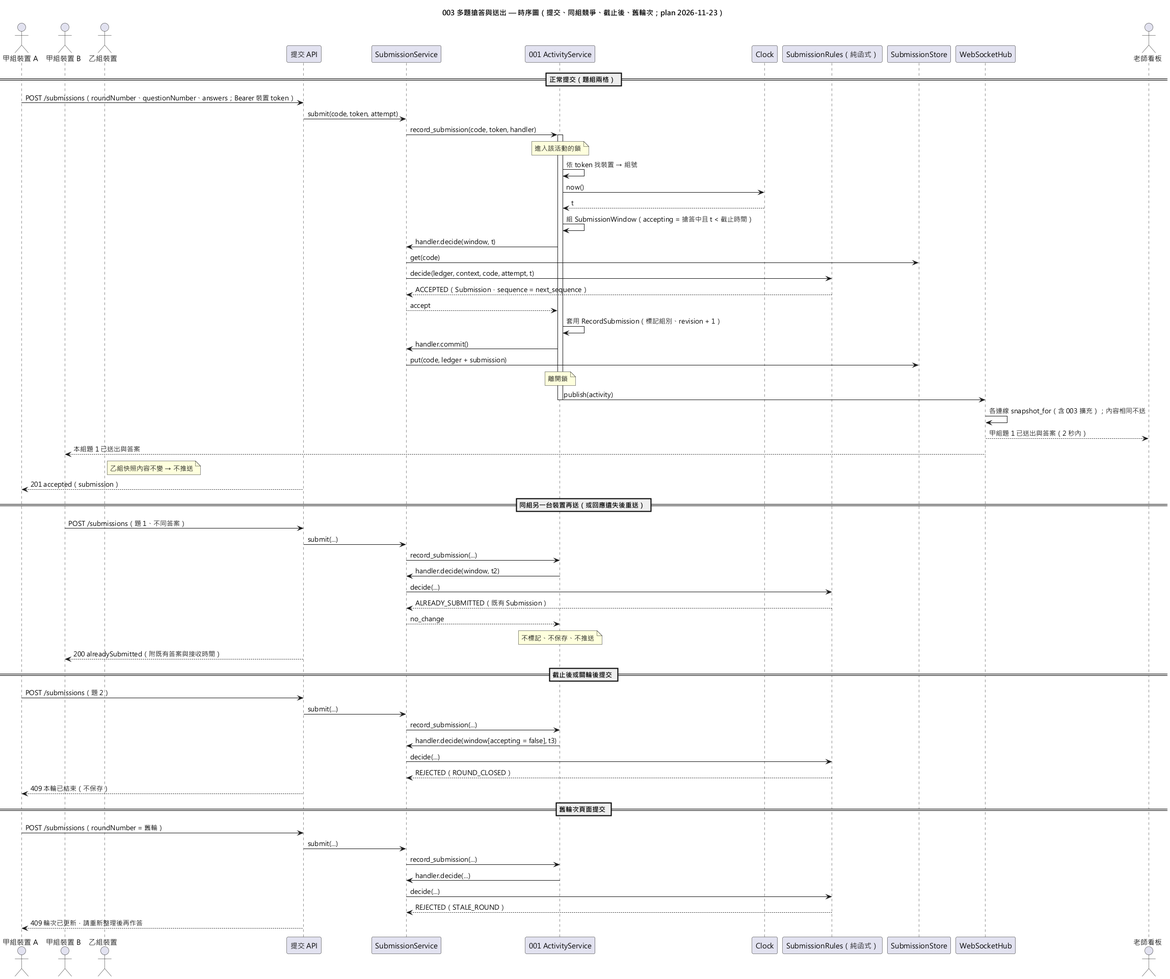
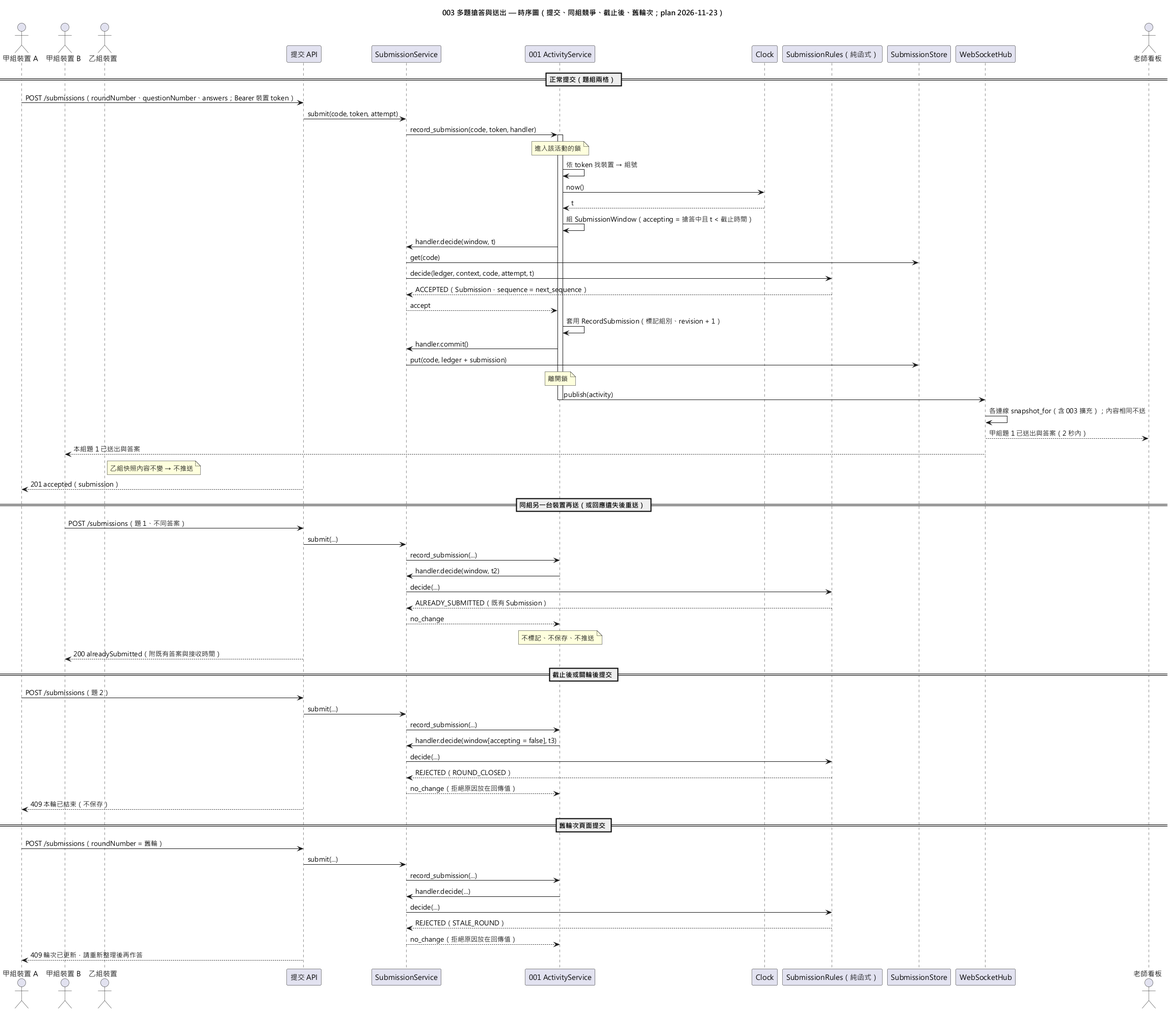
docs: 003 依 analyze 修正：序號不回覆學生、不放寬 001 Outcome、無輪次回本輪未開始、補測試任務與 004 交接

diff --git a/specs/003-round-submission/tasks.md b/specs/003-round-submission/tasks.md
@@ -44,7 +44,7 @@ description: "003-round-submission 任務清單"
 ### 測試（先寫、確認失敗）
 
 - [ ] T005 [P] 在 `tests/unit/core/test_state_machine_record_submission.py` 測試 001 新指令 `RecordSubmission`（與 `MarkGroupSubmitted` 相同，不檢查 actor：只由服務層以 `System()` 送出，沒有 HTTP 入口）：只在 `ROUND_OPEN` 成功，其他 6 個階段回 `STAGE_NOT_ALLOWED`；有截止時間時 `now < deadline` 成功、`now == deadline` 與之後拒絕（`STAGE_NOT_ALLOWED`），沒有截止時間時成功；組別不存在回 `GROUP_NOT_FOUND`；成功時 `has_submissions = True`，**每次都 `changed`**：第二次對同組套用 `revision` 仍加 1，`version` 與 `changed_at` 都不變（研究 R2、R5）
-- [ ] T006 [P] 在 `tests/unit/app/test_record_submission.py` 測試 `ActivityService.record_submission(code, device_token, handler)`：活動不存在回 `ACTIVITY_GONE`、token 無效回 `NOT_IN_GROUP`，兩者都不呼叫 `handler.decide`；`clock.now()` 只呼叫一次，且同一個值傳給 `decide`；`SubmissionWindow.accepting` 在搶答中且 `now < deadline`（或無截止）時為真、其他情況為假；`decide` 回 `accept` → 先套用 `RecordSubmission` 再呼叫 `commit`，`commit` 被呼叫時活動鎖仍被持有（仿 `tests/unit/app/test_idempotency_inside_lock.py` 的 LockCheckingRegistry），鎖釋放後 `publish` 恰好一次；`no_change`／`reject` → 不呼叫 `commit`、不推送、`revision` 不變；`RecordSubmission` 被拒（例如 FakeClock 讓截止時間在 window 組成後才到 —— 以 handler 內推進 FakeClock 的方式模擬不了時，直接構造截止已過的活動並讓 handler 強制回 `accept`）→ 不呼叫 `commit`，回傳拒絕
+- [ ] T006 [P] 在 `tests/unit/app/test_record_submission.py` 測試 `ActivityService.record_submission(code, device_token, handler)`：活動不存在回 `ACTIVITY_GONE`、token 無效回 `NOT_IN_GROUP`，兩者都不呼叫 `handler.decide`；`clock.now()` 只呼叫一次，且同一個值傳給 `decide`；`SubmissionWindow.accepting` 在搶答中且 `now < deadline`（或無截止）時為真、其他情況為假；`decide` 回 `accept` → 先套用 `RecordSubmission` 再呼叫 `commit`，`commit` 被呼叫時活動鎖仍被持有（仿 `tests/unit/app/test_idempotency_inside_lock.py` 的 LockCheckingRegistry），鎖釋放後 `publish` 恰好一次；`no_change` → 不呼叫 `commit`、不推送、`revision` 不變，`Outcome.ok` 為真且 `value` 為 handler 給的值；`RecordSubmission` 被拒（例如 FakeClock 讓截止時間在 window 組成後才到 —— 以 handler 內推進 FakeClock 的方式模擬不了時，直接構造截止已過的活動並讓 handler 強制回 `accept`）→ 不呼叫 `commit`，回傳拒絕
 - [ ] T007 [P] 在 `tests/unit/app/test_snapshot_extension.py` 測試快照擴充：未註冊時 `snapshot_for` 的結果與改動前完全相同；註冊後老師（`TeacherViewer`）與學生（`GroupViewer(n)`）的快照 `extra` 包含擴充回傳的欄位；擴充可覆寫 001 欄位；`snapshot()` 與 `WebSocketHub` 推送都經過擴充（以 TestClient WebSocket 收到的訊息驗證）；身分無效時仍回 `None`、不呼叫擴充
 - [ ] T008 [P] 在 `tests/unit/core/round_submission/test_models.py` 測試 `SubmissionLedger`：空 ledger `next_sequence == 1`；`with_added` 回傳新物件、原物件不變、`next_sequence + 1`；`find(round, question, group)` 找得到／找不到；`for_round` 只回該輪；所有型別 frozen（指定屬性拋 `FrozenInstanceError`）
 - [ ] T009 [P] 在 `tests/unit/app/round_submission/test_store.py` 測試 `SubmissionStore`：未知代碼回空 ledger；`put` 後 `get` 取回同一物件；不同活動互不影響
@@ -52,7 +52,7 @@ description: "003-round-submission 任務清單"
 ### 001 擴充實作
 
 - [ ] T010 在 `src/lecture_quiz/core/activity/commands.py` 新增 `RecordSubmission(actor: Actor, group_number: int)`（docstring 說明只給 003、每次都算變更），加入 `Command` 聯集；在 `src/lecture_quiz/core/activity/state_machine.py` 新增 `_record_submission`：允許階段 `frozenset({Stage.ROUND_OPEN})`、有截止時間時 `ActivityStateMachine.is_deadline_passed(current, now)` 為真就拒絕（`STAGE_NOT_ALLOWED`）、組別不存在 `GROUP_NOT_FOUND`、否則 `has_submissions = True` 並一律回 `_changed`；在 `describe_rejection` 若需要補 `RecordSubmission` 的訊息。不改 `MarkGroupSubmitted`（依賴 T005）
-- [ ] T011 在 `src/lecture_quiz/app/activity/ports.py` 新增：`SubmissionWindow`（frozen：`group_number: int`、`stage: Stage`、`round_number: int | None`、`open_questions: tuple[int, ...]`、`deadline: datetime | None`、`accepting: bool`）；`HandlerStep[T]`（`kind: Literal["accept", "no_change", "reject"]`、`value: T | None`、`rejection: str | None`、`message: str`，附 `accept()`／`no_change()`／`reject()` 建構函式）；`SubmissionHandler[T]` Protocol（`decide(window, now) -> HandlerStep[T]`、`commit() -> None`）；`TeacherViewer`、`GroupViewer(group_number)`、`Viewer` 聯集；`SnapshotExtension` Protocol（`__call__(activity, viewer) -> Mapping[str, object]`）。`Outcome.rejection` 型別放寬為 `RejectionReason | str | None`，讓 003 的拒絕碼可以沿用 `Outcome`（mypy 確認 001 既有呼叫端不受影響）
+- [ ] T011 在 `src/lecture_quiz/app/activity/ports.py` 新增：`SubmissionWindow`（frozen：`group_number: int`、`stage: Stage`、`round_number: int | None`、`open_questions: tuple[int, ...]`、`deadline: datetime | None`、`accepting: bool`）；`HandlerStep[T]`（`kind: Literal["accept", "no_change"]`、`value: T`，附 `accept(value)`／`no_change(value)` 建構函式；003 的拒絕也用 `no_change` 回傳，拒絕原因在 `value` 裡）；`SubmissionHandler[T]` Protocol（`decide(window, now) -> HandlerStep[T]`、`commit() -> None`）；`TeacherViewer`、`GroupViewer(group_number)`、`Viewer` 聯集；`SnapshotExtension` Protocol（`__call__(activity, viewer) -> Mapping[str, object]`）。**不修改** `Outcome`（001 HTTP 層 `unwrap()` 直接使用 `rejection.http_status`，放寬型別會讓 mypy 失敗）
 - [ ] T012 在 `src/lecture_quiz/app/activity/service.py` 實作 `record_submission(code, device_token, handler)`（研究 R2 步驟 1～7；鎖內順序：找裝置 → `now = self._clock.now()` → 組 `SubmissionWindow` → `handler.decide` → `accept` 時以 `ActivityStateMachine.apply(activity, RecordSubmission(System(), group), now, None)` 套用並 `registry.put` → `handler.commit()`；鎖外 `_publish`）、`add_snapshot_extension(ext)`，並把 `snapshot_for` 改為實例方法（先呼叫 `SnapshotView`，再依序併入擴充欄位）；同步修改 `snapshot()` 與所有呼叫點（依賴 T010、T011）
 - [ ] T013 在 `src/lecture_quiz/adapters/web/ws_sync.py` 的 `_push` 改為 `self._service.snapshot_for(activity, conn.requester)`（`_service` 為 `None` 時直接 return 並記 WARNING）（依賴 T012）
 - [ ] T014 執行 `pytest`：T005～T007 通過，001 既有測試**不修改**全部通過；把結果數字補進 `verification.md`。若有 001 測試因 `snapshot_for` 改為實例方法而失敗，只調整呼叫方式，不得改斷言，並在 verification.md 列出
@@ -80,13 +80,13 @@ description: "003-round-submission 任務清單"
 - [ ] T020 [P] [US1] 在 `tests/unit/core/round_submission/test_answer_rules.py` 測試 `AnswerRules.check(raw, expected)`（Q-20 提議）：格數不符 → `WRONG_BLANK_COUNT` 且 `expected_blanks == expected`（`Scenario: US1-AS4` ↔ OpenSpec「題組少一格」）；任一格 `strip()` 後為空（含半形空白、全形空白 U+3000、Tab、`\n`）→ `BLANK_EMPTY` 並列出**全部**空格格號（`Scenario: US1-AS3`、`Scenario: US1-AS6`）；`answers_raw` 不是 list、元素不是 str → `INVALID_ANSWER`；恰好 500 字通過、501 字 → `ANSWER_TOO_LONG` 並列出格號；同時有空格與超長時回 `BLANK_EMPTY`；通過時回傳**原文**（保留首尾空白與換行）；`MAX_ANSWER_CHARS == 500` 為模組常數
 - [ ] T021 [P] [US1] 在 `tests/unit/core/round_submission/test_decide_us1.py` 測試 `SubmissionRules.decide`：LAYOUT_A 開放題 1、2，先送題 2 再送題 1 都 `ACCEPTED`，序號 1、2（`Scenario: US1-AS1` ↔ OpenSpec「不同順序作答」）；只送其中兩題，其餘仍可送（`Scenario: US1-AS2`）；送本輪未開放的題 3 與不存在的題 99 → `QUESTION_NOT_OPEN`，ledger 不變（`Scenario: US1-AS5`）；題號不是整數 → `QUESTION_NOT_OPEN`；被拒後同題再送完整答案 → `ACCEPTED`（不消耗機會，FR-005）；內容明顯錯誤但非空 → `ACCEPTED` 且原文保存（`Scenario: US1-AS7`）；LAYOUT_B 題 2 需要 3 格：送 2 格 → `WRONG_BLANK_COUNT`、送 3 格 → `ACCEPTED`（原則 III、SC-009）；開放題查不到格數 → `QUESTION_NOT_OPEN`
 - [ ] T022 [P] [US1] 在 `tests/unit/app/round_submission/test_submit_us1.py` 以真的 `ActivityService` + `FakeClock` + `FakeQuestionShapeSource` 測試 `SubmissionService.submit`：接受後 store 有該筆、`received_at == fake_clock.now()`、老師快照 `revision` 加 1、`version` 不變；被拒時 store、`next_sequence`、`revision`、`version` 都不變且沒有推送（FR-005）
-- [ ] T023 [P] [US1] 在 `tests/contract/test_http_submissions.py` 測試 `POST /api/activities/{code}/submissions`：接受回 `201 {"result": "accepted", "submission": {roundNumber, questionNumber, groupNumber, answers, receivedAt}}`，回應不含 `sequence`；`WRONG_BLANK_COUNT`／`BLANK_EMPTY`／`ANSWER_TOO_LONG`／`QUESTION_NOT_OPEN`／`INVALID_ANSWER` 回 400 與 `{"error": {"code", "message"}}`，訊息分別含「需要 k 格」「第 i 格尚未填寫」「第 i 格超過 500 字」「不在本輪」；本文不是 JSON 物件或缺欄位 → 400 `INVALID_REQUEST`；錯誤回應不含 token、`Traceback`、檔案路徑（FR-034、SC-007）
+- [ ] T023 [P] [US1] 在 `tests/contract/test_http_submissions.py` 測試 `POST /api/activities/{code}/submissions`：接受回 `201 {"result": "accepted", "submission": {roundNumber, questionNumber, groupNumber, answers, receivedAt}}`，回應不含 `sequence`；`WRONG_BLANK_COUNT`／`BLANK_EMPTY`／`ANSWER_TOO_LONG`／`QUESTION_NOT_OPEN`／`INVALID_ANSWER` 回 400 與 `{"error": {"code", "message"}}`，訊息分別含「需要 k 格」「第 i 格尚未填寫」「第 i 格超過 500 字」「不在本輪」；本文不是 JSON 物件或缺欄位 → 400 `INVALID_REQUEST`；裝置 token 無效、未帶 token、改用**老師 token** 送出 → `403 NOT_IN_GROUP`；後端重啟後（活動不存在）帶舊 token 送出 → `410 ACTIVITY_GONE`（Edge Cases「不是學生裝置的請求」「活動已失效」）；錯誤回應不含 token、`Traceback`、檔案路徑（FR-034、SC-007）
 
 ### Implementation for User Story 1
 
 - [ ] T024 [US1] 在 `<core>/answer_rules.py` 實作 `MAX_ANSWER_CHARS = 500` 與 `AnswerRules.check(raw, expected) -> tuple[str, ...]`，失敗時拋 `InvalidAnswerError(rejection, blank_numbers, expected_blanks)`（規則照 T020 與 research R8；docstring 註明 Q-20 為 SpecKit 組提議、待 OpenSpec 確認）（依賴 T020）
 - [ ] T025 [US1] 在 `<core>/rules.py` 實作 `SubmissionRules.decide(ledger, context, code, attempt, now)` 的步驟 3（題號）、5（`AnswerRules`）、6（接受：`Submission(..., received_at=now, sequence=ledger.next_sequence)`）；步驟 1、2、4 先以「一律通過」的位置保留並加 `# US2／US3 完成` 註解（依賴 T021、T024）
-- [ ] T026 [US1] 在 `<app>/service.py` 實作 `submit(code, device_token, attempt) -> Outcome[SubmissionDecision]`：建立 `_SubmitHandler`（`decide`：讀 `store.get(code)`、以 `shapes.blanks_per_question(code)` 與 window 組 `RoundContext`、呼叫 `SubmissionRules.decide`、把結果轉成 `HandlerStep`；`commit`：`store.put(code, ledger.with_added(sub))`），呼叫 `activity_service.record_submission`；把 001 的 `ACTIVITY_GONE`／`NOT_IN_GROUP` 轉成 `SubmissionRejection` 同名值；INFO 日誌 `activity round question group result`，不含 token 與答案（研究 R13）（依賴 T022、T025）
+- [ ] T026 [US1] 在 `<app>/service.py` 實作 `submit(code, device_token, attempt) -> Outcome[SubmissionDecision]`：建立 `_SubmitHandler`（`decide`：讀 `store.get(code)`、以 `shapes.blanks_per_question(code)` 與 window 組 `RoundContext`、呼叫 `SubmissionRules.decide`、把結果轉成 `HandlerStep`：`ACCEPTED` → `accept(decision)`，`ALREADY_SUBMITTED` 與 `REJECTED` → `no_change(decision)`；`commit`：`store.put(code, ledger.with_added(sub))`），呼叫 `activity_service.record_submission`；`record_submission` 回傳 `ok=False` 時（001 的 `ACTIVITY_GONE`、`NOT_IN_GROUP`）轉成 `SubmissionDecision(kind=REJECTED, rejection=SubmissionRejection 同名值)`，讓 `submit` 一律回傳 `Outcome(ok=True, value=decision)`；INFO 日誌 `activity round question group result`，不含 token 與答案（研究 R13）（依賴 T022、T025）
 - [ ] T027 [US1] 在 `<web>/submission_api.py` 實作 `POST /activities/{code}/submissions`：pydantic 本文 `SubmitBody`（`model_config = ConfigDict(extra="ignore")`；`roundNumber`、`questionNumber`、`answers` 型別為 `object`，原樣交給核心）；以 001 `http_api` 的 `Token` 依賴取得 bearer token；接受回 201、拒絕以 `ApiError(status, code, message)` 拋出；`annotate_request_log(request, result=...)`（依賴 T023、T026）
 - [ ] T028 [US1] 前端作答表單：新增 `<static>/js/submission.js`，匯出 `renderAnswerForm(container, questionNumber, blanks, onSubmit)`（每格一個 `<textarea>`、標示「第 i 格」、`maxlength=500` 只是提示）、`describeSubmitError(error)`；`<static>/js/student.js` 在 `ROUND_OPEN` 時依快照的 `openQuestions` 與 `questionShapes` 畫出每題表單，送出時呼叫 `api.js` 的 POST；**一律用 `textContent`／`createElement`，不得使用 `innerHTML`**；`<static>/student.html` 加作答區塊容器。以 `node --check` 檢查語法
 
@@ -124,7 +124,7 @@ description: "003-round-submission 任務清單"
 
 ### Tests for User Story 3（先寫、確認失敗）⚠
 
-- [ ] T035 [P] [US3] 在 `tests/unit/core/round_submission/test_decide_us3.py` 測試：`round_number_raw` 不等於目前輪次、不是整數、或目前沒有輪次 → `STALE_ROUND`（`Scenario: US3-AS4` ↔ OpenSpec「舊輪次頁面提交」）；輪次相符但 `accepting` 為假 → `ROUND_CLOSED`（`Scenario: US3-AS2`、`Scenario: US3-AS3`）；`STALE_ROUND` 優先於 `ROUND_CLOSED`、`ROUND_CLOSED` 優先於題號與內容檢查；`SubmissionRules.order` 對相同 `received_at` 依 `sequence` 排序，輸入順序打亂結果相同（`Scenario: US3-AS5` ↔ OpenSpec「同時間戳」）
+- [ ] T035 [P] [US3] 在 `tests/unit/core/round_submission/test_decide_us3.py` 測試：`round_number_raw` 不等於目前輪次或不是整數 → `STALE_ROUND`；目前還沒有任何輪次（準備中、開放加入）→ `ROUND_CLOSED`，訊息為「本輪尚未開始或已結束」（spec Edge Cases「非搶答中提交」）（`Scenario: US3-AS4` ↔ OpenSpec「舊輪次頁面提交」）；輪次相符但 `accepting` 為假 → `ROUND_CLOSED`（`Scenario: US3-AS2`、`Scenario: US3-AS3`）；`STALE_ROUND` 優先於 `ROUND_CLOSED`、`ROUND_CLOSED` 優先於題號與內容檢查；`SubmissionRules.order` 對相同 `received_at` 依 `sequence` 排序，輸入順序打亂結果相同（`Scenario: US3-AS5` ↔ OpenSpec「同時間戳」）
 - [ ] T036 [P] [US3] 在 `tests/unit/app/round_submission/test_submit_deadline.py` 以 FakeClock 測試：開輪 60 秒，`deadline - 1ms` 接受、`deadline` 與 `deadline + 1ms` 回 `ROUND_CLOSED` 且不保存（`Scenario: US3-AS1`、`Scenario: US3-AS2` ↔ OpenSpec「截止邊界」；SC-004）；無倒數輪次在老師關輪前一直接受、關輪後 `ROUND_CLOSED`（`Scenario: US3-AS3`）；接收序號跨輪持續遞增、被拒不消耗序號（FR-016）；`received_at` 等於鎖內取得的 `now`
 - [ ] T037 [P] [US3] 在 `tests/unit/app/round_submission/test_close_vs_submit.py` 測試關輪與提交以 `asyncio.gather` 同時執行 50 次：每次要嘛提交被保存且關輪後的公開資料包含它，要嘛提交回 `ROUND_CLOSED` 且未保存；不存在「關輪後才保存」的提交（以 store 中每筆的 `received_at < 關輪時間` 且關輪後推送的快照已包含全部保存的提交檢查）（`Scenario: US3-AS6`；FR-019、SC-004）
 - [ ] T038 [P] [US3] 在 `tests/contract/test_http_submissions.py` 補：本文多帶 `clientTime`、`receivedAt`、`groupNumber` 欄位時被忽略，`receivedAt` 仍為後端時間、`groupNumber` 仍為 token 所屬組（`Scenario: US3-AS7`）；`STALE_ROUND`、`ROUND_CLOSED` 回 409 且訊息分別含「輪次已更新，請重新整理」「本輪已結束」
@@ -189,8 +189,8 @@ description: "003-round-submission 任務清單"
 
 ### Tests for User Story 6（先寫、確認失敗）⚠
 
-- [ ] T052 [P] [US6] 在 `tests/integration/test_us6_safe_display.py` 測試：答案 `<b>粗體</b><script>alert(1)</script>` 被接受，老師與學生快照、HTTP 回應中的答案字串與送出原文完全相同（`Scenario: US6-AS1` ↔ OpenSpec「特殊文字答案」；後端不轉義、不過濾，安全由前端 `textContent` 負責）；無倒數輪次的快照 `deadline` 為 `null`，老師關輪前任何時間（FakeClock 推進 1 小時）都接受提交（`Scenario: US6-AS3` ↔ OpenSpec「無倒數輪次」）；有倒數輪次的快照帶後端 `deadline`（`Scenario: US6-AS2`）
-- [ ] T053 [P] [US6] 在 `tests/architecture/test_static_text_safety.py` 靜態檢查：`<static>/js/submission.js`、`student.js`、`teacher.js` 不含 `innerHTML`、`outerHTML`、`insertAdjacentHTML`、`document.write`（`Scenario: US6-AS1`；FR-031、SC-008）；`submission.js` 只有在 `response.ok` 分支呼叫顯示「已送出」的函式（以字串規則檢查 `已送出` 文字只出現在成功處理函式內）（`Scenario: US6-AS4`；FR-032）
+- [ ] T052 [P] [US6] 在 `tests/integration/test_us6_safe_display.py` 測試：答案 `<b>粗體</b><script>alert(1)</script>` 被接受，老師與學生快照、HTTP 回應中的答案字串與送出原文完全相同（`Scenario: US6-AS1` ↔ OpenSpec「特殊文字答案」；後端不轉義、不過濾，安全由前端 `textContent` 負責）；無倒數輪次的快照 `deadline` 為 `null`，老師關輪前任何時間（FakeClock 推進 1 小時）都接受提交（`Scenario: US6-AS3` ↔ OpenSpec「無倒數輪次」）；有倒數輪次的快照帶後端 `deadline`（`Scenario: US6-AS2`，前端「歸零後停用送出」另由 T053 靜態檢查與 quickstart 第 15 步驗證，後端拒絕由 T036 驗證）；學生 WebSocket 關閉後，同組另一台裝置提交，再以同一 token 重新連線時，第一份快照就包含該提交（`Scenario: US6-AS5`；FR-033）
+- [ ] T053 [P] [US6] 在 `tests/architecture/test_static_text_safety.py` 靜態檢查：`<static>/js/submission.js`、`student.js`、`teacher.js` 不含 `innerHTML`、`outerHTML`、`insertAdjacentHTML`、`document.write`（`Scenario: US6-AS1`；FR-031、SC-008）；`student.js` 的倒數歸零處理會停用作答表單（以字串規則檢查倒數結束的回呼中有停用表單的呼叫）（`Scenario: US6-AS2`）；`submission.js` 只有在 `response.ok` 分支呼叫顯示「已送出」的函式（以字串規則檢查 `已送出` 文字只出現在成功處理函式內）（`Scenario: US6-AS4`；FR-032）
 
 ### Implementation for User Story 6
 
@@ -300,6 +300,7 @@ Task: "T009 tests/unit/app/round_submission/test_store.py"
 
 ## Notes
 
+- **交接給 004**：FR-026「所有候選都被判錯 → 顯示未成功」、FR-025 的勝者與「搶答失敗」顯示，都需要 004 的順位與判錯結果；003 只提供 `judgedWrong` 欄位（一律 `false`）、`noSubmission` 與送出先後（`order`）。004 的 tasks 必須涵蓋這些項目
 - [P] = 不同檔案且沒有未完成的相依
 - 每個 User Story 完成後勾選、commit（`feat:`／`test:`）、push
 - 不得為了讓測試通過而修改 001 既有測試的斷言（T014）

diff --git a/specs/003-round-submission/spec.md b/specs/003-round-submission/spec.md
@@ -221,7 +221,7 @@
 - **FR-007**: 對同一活動、同一輪、同一題、同一組，系統 MUST 只接受第一筆有效提交，MUST NOT 允許修改、覆蓋或撤回。
 - **FR-008**: 該組該題本輪已有有效提交時，任何後續送出（不論來自哪一台本組裝置、內容是否相同、內容是否有效）MUST 回覆「本組已送出」，並附上本組已保存的答案與接收時間；MUST NOT 揭露他組資訊。
 - **FR-009**: 同組多台裝置同時送出同輪同題時，MUST 只有一筆被保存；所有本組裝置 MUST 在同步期限內顯示同一份答案。
-- **FR-010**: 同一請求重送（例如回應遺失後重試）MUST NOT 建立第二筆提交，MUST 回覆原提交的答案、接收時間與接收序號。
+- **FR-010**: 同一請求重送（例如回應遺失後重試）MUST NOT 建立第二筆提交，MUST 回覆原提交的答案與接收時間；後端保存的接收序號 MUST 保持不變，但 MUST NOT 回覆給學生（序號在活動內跨組遞增，回覆給學生會讓人推知他組的提交數量，違反 FR-021）。
 - **FR-011**: 某題在前一輪未成功並於新一輪再次開放時，每一組 MUST 在新一輪重新獲得一次提交機會；前一輪的提交紀錄 MUST 保持不變。
 - **FR-012**: 提交 MUST 歸屬於送出當下由後端判定的組號，之後裝置離開本組或加入他組，MUST NOT 改變既有提交的歸屬（alignment 2026-11-23 B4）。
 - **FR-013**: 系統 MUST 先向 001 標記該組已有提交紀錄，標記成功後才保存答案；標記被拒（例如組別不存在、本輪已不開放）時 MUST NOT 保存答案。001 已禁止搶答中刪除組別（alignment 2026-11-23「001 刪除組別規則釐清」），這個順序是防禦性的保證：任何時候都不會出現「答案已保存但組別已被刪除」。
@@ -266,6 +266,7 @@
 
 ### Key Entities *(include if feature involves data)*
 
+- **判錯與答錯（用詞）**：「判錯」是老師在 004 的操作；「答錯」是公開結果中被判錯提交的顯示文字；「搶答失敗」是勝者之後、沒有被判錯的候選的顯示文字（不等於答錯）。
 - **提交（Submission）**：一組在某一輪對某一題的第一筆有效答案。屬性：活動代碼、輪次編號、題號、組號、各子空格答案（依子空格編號排列）、後端接收時間、接收序號。建立後不可修改；不包含裝置 token。
 - **提交嘗試（Submission Attempt）**：學生送出的原始內容：輪次識別、題號、各格答案。只用於判定，被拒時不保存。
 - **提交判定結果（Submission Decision）**：接受（含新提交）、本組已送出（含既有提交）、或拒絕（含可修正的原因，例如第幾格未填、第幾格超過 500 字、這題需要幾格、該題不在本輪、輪次已更新、本輪已結束、未加入組別、活動已失效）。
@@ -278,7 +279,7 @@
 
 - **SC-001**: 每個 OpenSpec Scenario（13 個）與本 spec 的每個 Acceptance Scenario，都至少有一個自動化測試標明對應並通過。
 - **SC-002**: 「同組兩台裝置同時送出同題不同答案」重複 50 次，每次都只保存 1 筆、另一台都收到「本組已送出」，兩台最後顯示的答案 100% 相同。
-- **SC-003**: 「回應遺失後重送」重複 20 次，重複提交數為 0，回覆的接收時間與序號 100% 與原提交相同。
+- **SC-003**: 「回應遺失後重送」重複 20 次，重複提交數為 0，回覆的答案與接收時間 100% 與原提交相同，後端保存的接收序號 100% 不變。
 - **SC-004**: 截止邊界測試中，接收時間早於截止 1 毫秒者 100% 被接受，恰於截止與晚於截止者 100% 被拒絕；「關輪與提交同時發生」重複 50 次，結果公開後才加入的提交數為 0。
 - **SC-005**: 搶答期間，學生頁面收到的所有回應與推送中，含有他組本輪答案、提交狀態、時間、數量或順位的次數為 0；他組提交時本組收到推送的次數為 0。
 - **SC-006**: 老師加上 6 組、每組 2 條連線同時在線時，有效提交被接受後 2 秒內出現在老師看板與同組另一台裝置；連續 20 次全部達成。

diff --git a/specs/003-round-submission/research.md b/specs/003-round-submission/research.md
@@ -48,7 +48,7 @@ Technical Context 沒有 NEEDS CLARIFICATION；以下是設計決策。每項格
 
 ## R6 每題子空格數的來源
 
-- **決策**：003 定義 `QuestionShapeSource` Protocol：`blanks_per_question(code) -> Mapping[int, int] | None`（題號 → 格數；尚未成功匯入時為 `None`）。由 002 的 `ImportService` 實作（`ImportRecord.blanks` 依題號計數；已與 EricC430 口頭協調）。002 合併前：`dev_seed` 的 seed 可指定每題格數，並提供 `DevQuestionShapeSource`；只在 dev seed 啟用時組裝。
+- **決策**：003 定義 `QuestionShapeSource` Protocol：`blanks_per_question(code) -> Mapping[int, int] | None`（題號 → 格數；尚未成功匯入時為 `None`）。由 002 的 `ImportService` 實作（`ImportRecord.blanks` 依題號計數；已與 EricC430 口頭協調）。002 合併前：`dev_seed` 的 seed 可指定每題格數，並提供 `DevQuestionShapeSource`；只在 dev seed 啟用時組裝；seed 的 `blanks` 長度必須等於題數、每題 1～10 格（只是開發用的防呆上限，不是正式規則）。
 - **理由**：格數一律來自匯入結果（憲章原則 III）；重新匯入只在第一輪前，搶答中格數不變。
 - **替代方案**：001 的 `replace_questions` 改傳格數（改動 001 與 002 已對齊的契約，否決）；003 直接讀 002 的 `ImportRecord`（耦合 002 內部型別，否決）。
 - **防禦**：開放題在 `QuestionShapeSource` 查不到格數時，`decide` 回 `QUESTION_NOT_OPEN` 並記錄 WARNING（不應發生，代表 002／001 資料不一致）。
@@ -79,7 +79,7 @@ Technical Context 沒有 NEEDS CLARIFICATION；以下是設計決策。每項格
 ## R10 判定順序與拒絕原因
 
 - **決策**：`SubmissionRules.decide` 依下列順序，第一個不符合的條件決定結果（data-model.md 有完整表）：
-  1. 輪次識別不是整數，或不等於目前輪次 → `STALE_ROUND`（沒有任何輪次時亦同）。
+  1. 目前還沒有任何輪次（準備中、開放加入）→ `ROUND_CLOSED`（「本輪尚未開始或已結束」）；輪次識別不是整數，或不等於目前輪次 → `STALE_ROUND`。
   2. `accepting` 為假（不在搶答中、已截止、已關輪）→ `ROUND_CLOSED`。
   3. 題號不是整數或不在本輪開放題 → `QUESTION_NOT_OPEN`。
   4. 本組本輪本題已有提交 → `ALREADY_SUBMITTED`（附既有提交）。

diff --git a/specs/003-round-submission/contracts/service-interfaces.md b/specs/003-round-submission/contracts/service-interfaces.md
@@ -7,7 +7,8 @@
 | 方法 | 說明 |
 |---|---|
 | `ActivityService.record_submission(code, device_token, handler: SubmissionHandler[T]) -> Outcome[T]` | 在該活動的鎖內：找裝置（`NOT_IN_GROUP`／`ACTIVITY_GONE`）→ `now = clock.now()` → 組 `SubmissionWindow` → `handler.decide(window, now)` → 若為接受：套用 `RecordSubmission`（失敗就不呼叫 `commit`）→ `handler.commit()` → 鎖外推送 |
-| `SubmissionHandler.decide(window, now) -> HandlerStep[T]` | 003 實作；`HandlerStep` 為 `accept(value)`、`no_change(value)` 或 `reject(reason, message)`；**不得有副作用** |
+| `SubmissionHandler.decide(window, now) -> HandlerStep[T]` | 003 實作；`HandlerStep` 只有 `accept(value)`（要標記並保存）與 `no_change(value)`（不保存、不推送）兩種；003 自己的拒絕（`STALE_ROUND` 等）也以 `no_change` 回傳，拒絕原因放在 `value`（`SubmissionDecision`），**不經過 001 的 `RejectionReason`**；**不得有副作用** |
+| （拒絕的回傳方式） | `record_submission` 的 `Outcome.ok` 只在 001 層面失敗（`ACTIVITY_GONE`、`NOT_IN_GROUP`、`RecordSubmission` 被拒）時為假，此時 `rejection` 是 001 的 `RejectionReason`；001 的 `Outcome.rejection` 型別**不放寬**，因為 001 HTTP 層的 `unwrap()` 直接使用 `rejection.http_status` |
 | `SubmissionHandler.commit() -> None` | 003 實作；只在 `RecordSubmission` 成功後、仍在鎖內被呼叫，把新的 ledger 寫入 store |
 | `ActivityService.add_snapshot_extension(ext: SnapshotExtension)` | 註冊快照擴充；`ext(activity, viewer) -> Mapping[str, object]`，回傳的欄位併入快照 `extra`，可覆寫 001 的欄位（003 目前不覆寫；只有 Q-22 改為隱藏本組成功次數時才覆寫 `ownGroup.successCount`） |
 | `ActivityService.snapshot_for(activity, requester)` | 改為實例方法；`WebSocketHub` 與 `snapshot()` 都經過它，擴充自動生效 |

diff --git a/specs/003-round-submission/data-model.md b/specs/003-round-submission/data-model.md
@@ -29,7 +29,8 @@
 |---|---|---|---|---|
 | — | 活動不存在（001 處理） | `ACTIVITY_GONE` | 410 | 活動已失效，請重新加入 |
 | — | token 不屬於任何組（001 處理） | `NOT_IN_GROUP` | 403 | 這台裝置還沒有加入組別 |
-| 1 | `round_number_raw` 不是整數，或 ≠ 目前輪次編號，或目前沒有輪次 | `STALE_ROUND` | 409 | 輪次已更新，請重新整理後再作答 |
+| 1 | 目前還沒有任何輪次（準備中、開放加入） | `ROUND_CLOSED` | 409 | 本輪尚未開始或已結束 |
+| 1b | `round_number_raw` 不是整數，或 ≠ 目前輪次編號 | `STALE_ROUND` | 409 | 輪次已更新，請重新整理後再作答 |
 | 2 | `accepting` 為假 | `ROUND_CLOSED` | 409 | 本輪已結束（或尚未開始），不能再送出 |
 | 3 | 題號不是整數或不在 `open_questions`，或查不到格數 | `QUESTION_NOT_OPEN` | 400 | 第 n 題不在本輪開放範圍 |
 | 4 | 本組本輪本題已有提交 | `ALREADY_SUBMITTED` | 200 | 本組已送出（附既有答案與時間） |
